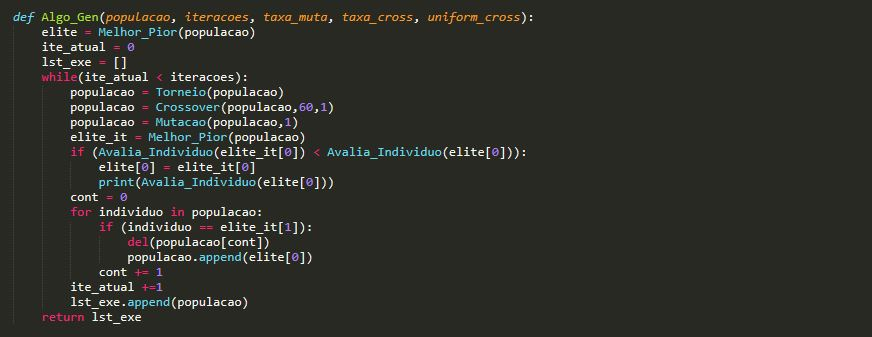
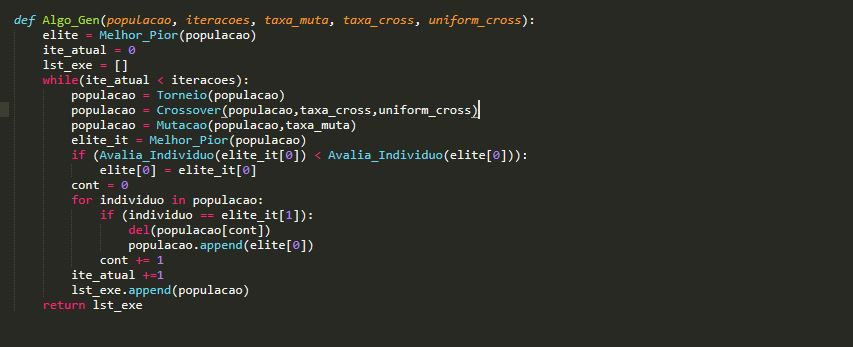
Correções

Changed region(s): [[0.0, 0.0297, 0.6401, 0.9792]]

diff --git a/Algoritmo_GEN.py b/Algoritmo_GEN.py
@@ -1,0 +1,185 @@
+import random
+import math
+
+###### Autores: Gabriel Marchezi e Gabriel Viggiano ######
+
+#Inicializa a população com valores aleatórios
+def InicializarPopulação (numPop):
+	listaPop = []
+	individuo = 0
+	while (numPop > 0):
+		individuo = random.randint(0,1024)
+		listaPop.append(DecToBin(individuo))
+		numPop = numPop - 1
+	return listaPop
+
+#seleciona dos pais através do método torneio
+def Torneio(populacao):
+	lista_torneio = []
+	for i in range(len(populacao)):
+		pai1 = populacao[random.randint(0,len(populacao)-1)]
+		pai2 = populacao[random.randint(0,len(populacao)-1)]
+		if Avalia_Individuo(pai1) < Avalia_Individuo(pai2):
+			lista_torneio.append(pai1)
+		else:
+			lista_torneio.append(pai2)
+	return lista_torneio
+
+#Aplica o Crossover com uma taxa passada por parametro de maneira uniforme ou não
+def Crossover(lst_pais, taxa, uniforme):
+	lst_filhos = []
+	for i in range(0,len(lst_pais),2):
+		if(random.randint(1,100) <= taxa):
+			if(uniforme == 0):
+				ponto = random.randint(0,len(lst_pais[i]))
+				filho1 = lst_pais[i][:ponto] + lst_pais[i+1][ponto:]
+				filho2 = lst_pais[i][ponto:] + lst_pais[i+1][:ponto]
+			else:
+				ponto = int(len(lst_pais[i])/2)
+				filho1 = lst_pais[i][:ponto] + lst_pais[i+1][ponto:]
+				filho2 = lst_pais[i][ponto:] + lst_pais[i+1][:ponto]
+		else:
+			filho1 = lst_pais[i]
+			filho2 = lst_pais[i+1]
+		lst_filhos.append(filho1)
+		lst_filhos.append(filho2)
+	return lst_filhos
+
+def Mutacao (lst_filhos, taxa):
+	lst_mutada = []
+	for filho in lst_filhos:
+		b1n = ''
+		for bit in filho:
+			if(random.randint(1,100) <= taxa):
+				if(bit == '1'):
+					b1n += '0'
+				else:
+					b1n += '1'
+			else:
+				b1n += bit
+		lst_mutada.append(b1n)
+	return lst_mutada
+
+#Recebe uma lista de individuos e retorna uma lista com os individuos com melhor e pior aptidão
+def Melhor_Pior (lst_ind):
+	lista = []
+	melhor = lst_ind[0]
+	pior = lst_ind[0]
+	for individuo in lst_ind:
+		if (Avalia_Individuo(individuo) < Avalia_Individuo(melhor)):
+			melhor = individuo
+		if(Avalia_Individuo(individuo) > Avalia_Individuo(pior)):
+			pior = individuo
+	lista.append(melhor)
+	lista.append(pior)
+	return lista
+
+
+
+# Converte um número decimal para um número binário de 10 bits
+def DecToBin(dec):
+	b1n = bin(dec)[2:]
+	while (len(b1n) < 10):
+		b1n = '0' + b1n
+	return b1n
+
+# Convente um número binário para um número decimal
+def BinToDec(b1n):
+	b1n = '0b' + b1n
+	dec = int(b1n,2)
+	return dec
+
+
+# Avalia a aptidão do invidíduo
+def Avalia_Individuo(individuo):
+	x = (40/1024)*BinToDec(individuo)-20
+	resultado = round(math.cos(x)*x+2,2)
+	return resultado
+
+
+def Algo_Gen(populacao, iteracoes, taxa_muta, taxa_cross, uniform_cross):
+	elite = Melhor_Pior(populacao)
+	ite_atual = 0
+	lst_exe = []
+	while(ite_atual < iteracoes):
+		populacao = Torneio(populacao)
+		populacao = Crossover(populacao,taxa_cross,uniform_cross)
+		populacao = Mutacao(populacao,taxa_muta)
+		elite_it = Melhor_Pior(populacao)
+		if (Avalia_Individuo(elite_it[0]) < Avalia_Individuo(elite[0])):
+			elite[0] = elite_it[0]
+		cont = 0
+		for individuo in populacao:
+			if (individuo == elite_it[1]):
+				del(populacao[cont])
+				populacao.append(elite[0])
+			cont += 1
+		ite_atual +=1
+		lst_exe.append(populacao)
+	return lst_exe
+
+
+
+def main():
+	numpop = int(input("Digite a tamanho da população: "))
+	iteracoes = int(input("Digite o número de iterações: "))
+	taxa_muta = int(input("Digite a taxa de mutação: "))
+	taxa_cross = int(input("Digite a taxa de crossover: "))
+	uniform_cross = int(input("O crossover terá ponto uniforme?(1 para sim, 0 para não): "))
+	execucoes = int(input("Digite o número de execuções:"))
+	
+	#Executa o Algoritmo Genético N vezes
+	exe_atual = 0
+	lst_exes = []
+	while(exe_atual < execucoes):
+		populacao_inic = []
+		populacao_inic = InicializarPopulação(numpop)
+		resultado = Algo_Gen(populacao_inic, iteracoes, taxa_muta, taxa_cross, uniform_cross)
+		lst_exes.append(resultado)
+		exe_atual += 1
+
+	#Encontra os melhores resultados de todas as iterações em todas as execuções
+	lst_melhores_exe = []
+	for exe in lst_exes:
+		lst_melhores_ite = []
+		for ite in exe:
+			melhor = 1
+			for ind in ite:
+				if (Avalia_Individuo(ind) < melhor):
+					melhor = Avalia_Individuo(ind)
+			lst_melhores_ite.append(melhor)
+		lst_melhores_exe.append(lst_melhores_ite)
+
+	#Inicia a lista com as médias dos resultados preenchendo com zeros
+	lista_medias = []
+	for i in range(0,iteracoes):
+		lista_medias.append(0)
+
+	#Calcula a média das iterações das execuções e guarda também a execução com melhor resultado
+	lst_melhor_result = [['']]
+	melhor = 1
+	for exe in lst_melhores_exe:
+		pos = 0
+		temp = []
+		cond = False
+		for result in exe:
+			if(result < melhor):
+				cond = True
+				melhor = result
+			temp.append(result)
+			lista_medias[pos] += result
+			pos += 1	
+		if(cond == True):
+			lst_melhor_result[0] = temp
+	print("melhor: " + str(melhor))
+	print(lst_melhor_result)
+	cont = 0
+	for i in lista_medias:
+		lista_medias[cont] = lista_medias[cont]/execucoes
+		cont += 1
+	print("Médias das iterações em "+ str(execucoes) + " execuções: ")
+	print(lista_medias)
+
+
+if __name__ == '__main__':
+	main()
